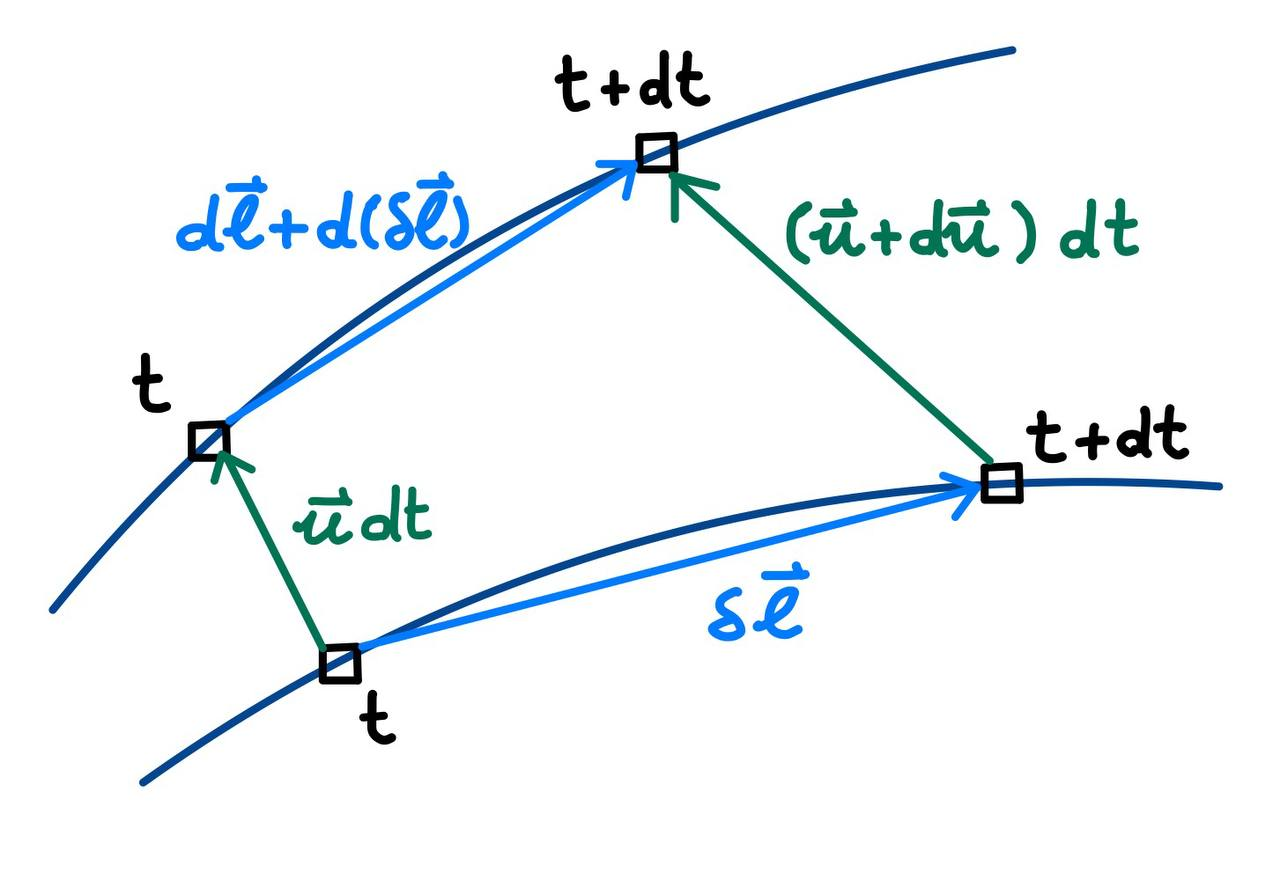
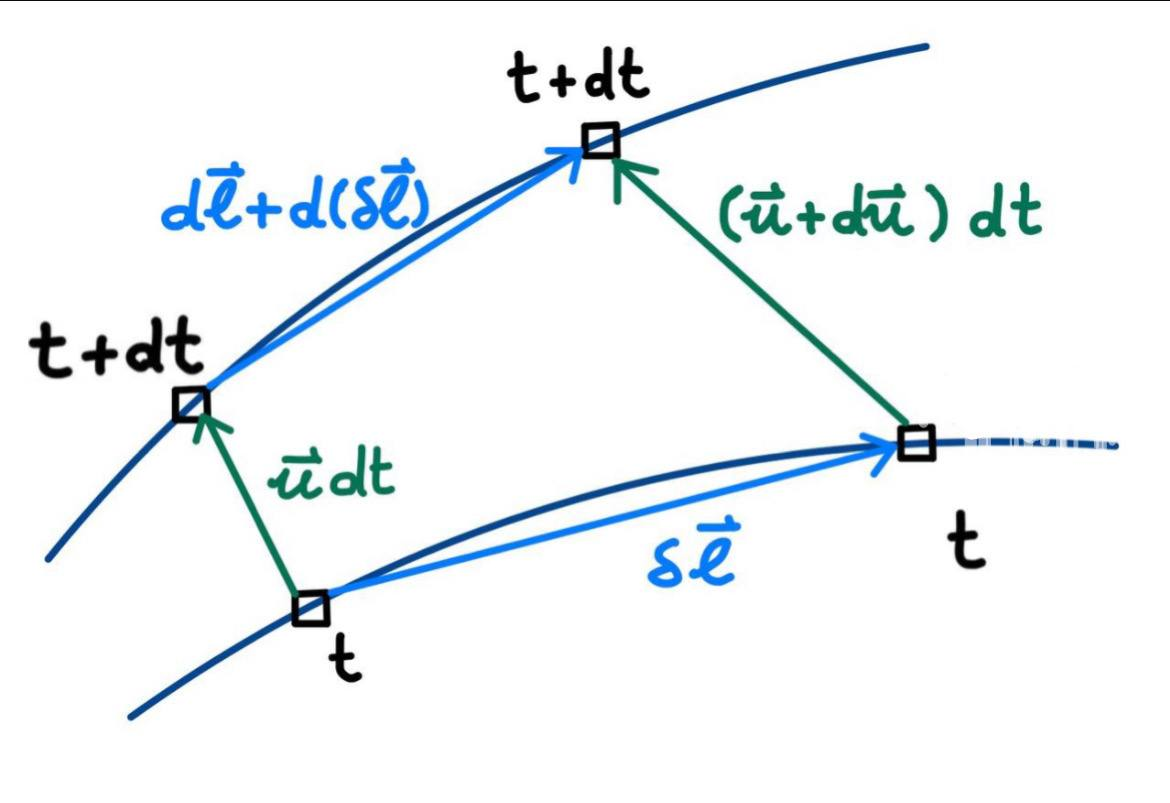
correzioni alle onde di plasma

diff --git a/plasma-waves.tex b/plasma-waves.tex
@@ -4,7 +4,7 @@
 	Riferimenti: cap. 9-10-11 di \emph{Fisica dei plasmi} di Pucella-Segre
 }{}
 
-Ricordiamo dei risultati già ottenuti per poi sviluppare una descrizione delle onde di plasma aggiornata alle nuove descrizioni che abbiamo sviluppato negli ultimi capitoli (teoria cinetica e magnetoidrodinamica).
+Ricordiamo dei risultati già ottenuti per poi sviluppare una descrizione delle onde di plasma aggiornata alle nuove teorie che abbiamo sviluppato negli ultimi capitoli (teoria cinetica e magnetoidrodinamica).
 
 \subsection{Onde acustiche}
 
@@ -90,54 +90,72 @@ Da qui abbiamo osservato la possibilità di dividere il risultato per la propaga
 \section{Onde ion-acustic}
 
 
-Onde elettrostatiche di tipo acustico/sonoro, si possono ricavare da vlasov ma noi non lo facciamo, le ricaviamo con il modello a due fluidi. 
+Onde elettrostatiche di tipo acustico/sonoro, si possono ricavare da vlasov ma noi non lo facciamo, le ricaviamo con il modello a due fluidi (cfr. sezione 10.6 Pucella-Segre, "\emph{Onde elettrostatiche in plasmi caldi, senza $B_0$}", con un procedimento del tutto uguale a quello che seguiremo di seguito si possono trovare le stesse onde di plasma che abbiamo già studiato e riassunto qui, per queste cfr. sezione 10.5 "\emph{Onde in un plasma freddo, senza $B_0$}"). 
 
-Se partissimo direttamente dall'MHD non troveremmo le onde di plasma (e il landau damping), ma noi invece le troveremo (questa parte è un po' poco chiara, si fa facilmente confusione fra tutti questi tipi di onde in diversi regimi, ma vediamo come rimettere il tutto in ordine).
+Se partissimo direttamente dall'MHD (cfr. capitolo 9 Pucella-Segre) non troveremmo le onde di plasma (e il landau damping), ma noi invece le troveremo (questa parte è un po' poco chiara, si fa facilmente confusione fra tutti questi tipi di onde in diversi regimi, ma vediamo come rimettere il tutto in ordine).
 
-Abbiamo un plasma non magnetizzato:
+  
+
+\paragraph{Equazioni di base e ipotesi: } 
+
+Consideriamo le grandezze all'equilibrio con perturbazioni di piccola grandezza:
+
+\[n_\alpha=n_{0\alpha}+n_{1\alpha}\hspace{1cm}P_\alpha=P_{0\alpha}+P_{1\alpha}\hspace{1cm}\text{con }\alpha=I,e\]
+
+Vogliamo studiare un plasma non magnetizzato, per le grandezze di equilibrio poniamo le ipotesi:
 
 \[\vec E_0=0 \implies \vec E=\vec E_1\ ;\qquad
 \vec B_0=0\implies \vec B=\vec b\ ; \qquad
 \vec u_0=0\implies \vec u=\vec u_1\] 
 
-il termine $\vec u_1\times\vec b$ è del second'ordine ed è pertanto per noi nullo, significa che la nostra onda è polarizzata longitudinalmente e non abbiamo onde elettromagnetiche che avrebbero bisogno del campo magnetico,
+Abbiamo detto che ricaveremo queste onde partendo dal modello a due fluidi quindi riportiamo le equazioni introdotte nel capitolo 2 (continuità, moto, politropica):
 
-\[\vec E\parallel\vec u\parallel\vec k\]
+\[
+\begin{cases}
+	\frac{\partial n_\alpha}{\partial t}\, +\, \vec \nabla \cdot (n_\alpha \vec u_\alpha)\ =\ 0\ \ ,\\
+	m_\alpha n_\alpha \left(\frac{\partial \vec u_\alpha}{\partial t + \vec u_\alpha \cdot \vec \nabla \vec u_\alpha }\right)\ =\ -\vec \nabla P_\alpha\, +\, n_\alpha q_\alpha\,\left(\vec E + \frac{1}{c}\vec u_\alpha \times \vec B\right)\ \ ,\\
+	\frac{D}{Dt} \left(P_\alpha n_\alpha^{-\gamma_\alpha}\right)\ =\ 0\ \ .	
+\end{cases}
+\]
 
-La velocità di fase dell'onda ion-acustic è molto minore delle velocità termiche elettroniche in gioco: 
-
-\[v_{th,I}\ll v_f \ll v_{th,e} \] 
-
-i tempi scale sono tali da avere una risposta inerziale (adiabatica) da parte degli ioni e una risposta termica (isoterma) da parte degli elettroni. questo implica che devo usare due politropiche diverse per le due specie.   
-
-\paragraph{Equazioni di base: } 
-\[n_\alpha=n_{0\alpha}+n_{1\alpha}\hspace{1cm}P_\alpha=P_{0\alpha}+P_{1\alpha}\hspace{1cm}\alpha=I,e\]
+Andiamo a linearizzare come già fatto precedentemente ma per la politropica in particolare osserviamo che il termine $\vec u_1\cdot \vec \nabla$ della derivata materiale è di ordine successivo per cui rimane $\frac{\partial p_\alpha}{\partial t} n_\alpha^{-\gamma_\alpha} + p_\alpha\frac{\partial (n_\alpha^{-\gamma_\alpha)}}{\partial t} = 0$:
 
 \[\begin{aligned}
 	\text{equazione di continuità linearizzata}\qquad \qquad  
 	& \partial_tn_{1\alpha }+\nabla\cdot(n_{0\alpha}\vec u_{1\alpha})=0\\ 
 	\text{equazione del moto linearizzata} \qquad \qquad
-	& m_\alpha\, n_{0\alpha}\,\partial_t\vec u_{1\alpha}\ =\ -\nabla P_{1\alpha}\,+\,n_{0\alpha}q_{\alpha}\,(\vec E+\cancelto{0}{\frac{\vec u_{1\alpha}\times\vec b}{c}})\\
+	& m_\alpha\, n_{0\alpha}\,\partial_t\vec u_{1\alpha}\ =\ -\nabla P_{1\alpha}\,+\,n_{0\alpha}q_{\alpha}\,(\vec E+\cancelto{\sim 0}{\frac{\vec u_{1\alpha}\times\vec b}{c}})\\
 	\text{chiusura politropica linearizzata} \qquad \qquad
 	& P_{1\alpha}\ =\ \gamma_\alpha\frac{P_{0\alpha}}{n_{0\alpha}}n_{1\alpha}\ \underset{\begin{cases} P=nT\\ v_{th}^2=T/m \end{cases}}{=}\ \gamma_\alpha\,  v^2_{th}\, m_\alpha\,n_{1\alpha}
 \end{aligned}\]
 
+il termine $\vec u_1\times\vec b$ è del second'ordine ed è pertanto per noi nullo, significa che per la nostra onda che è polarizzata longitudinalmente $\vec k\parallel \vec E$, la seconda equazione ci conduce alla condizione:
 
-\paragraph{soluzione onda piana e relazione di dispersione: } 
-Cerco una soluzione ad onda piana $\sim e^{i(\vec k\cdot\vec r-\omega t)}$, trovo un sistema di equazioni che se risolte mi danno la relazione di dispersione.  
+\[\vec E_1\ \parallel\ \vec u_1\ \parallel\ \vec k\ \ \ .\]
+
+La velocità di fase dell'onda ion-acustic è molto minore delle velocità termiche elettroniche in gioco: 
+
+\[v_{th,I}\ll v_f \ll v_{th,e} \] 
+
+i tempi scale sono tali da avere una risposta inerziale (adiabatica) da parte degli ioni e una risposta termica (isoterma) da parte degli elettroni. questo implica che devo usare due politropiche diverse per le due specie. 
 
 Risulta utile definire una sorta di "\underline{velocità del suono per la specifica specie}"
 
 \[\boxed{ v^2_{0\alpha}=\frac{\gamma_\alpha P_{0\alpha}}{m_\alpha n_{0\alpha}} }\] 
 
-Facciamo una trasformata di Fourier e togliamo i segni di vettore perché il nostro problema adesso è unidimensionale:
+
+
+\paragraph{soluzione onda piana e relazione di dispersione: } 
+Cerco una soluzione ad onda piana $\sim e^{i(\vec k\cdot\vec r-\omega t)}$, trovo un sistema di equazioni che se risolte mi danno la relazione di dispersione.  
+
+Facciamo una trasformata di Fourier e togliamo i segni di vettore perché il nostro problema diventa unidimensionale grazie alla condizione di parallelismo fra campo elettrico, vettore d'onda e velocità di propagazione:
 
 \[\begin{cases}
 	-i\omega\,n_{1\alpha}\,+\,ik\,n_{0\alpha}u_\alpha\ =\ 0
 	\\
 	i\,\omega m\,_\alpha n_{0\,\alpha}\,u_\alpha\ =\ -iP_{1\alpha}k\,+\, n_{0\alpha}q_{\alpha}\, E
 	\\
-	P_{1\alpha}\ =\ \gamma_\alpha\, \frac{P_{0\alpha}}{n_{0\alpha}}\, n_{1\alpha}    
+	P_{1\alpha}\ =\ \gamma_\alpha P_{0\alpha}\, \frac{n_{1\alpha} }{n_{0\alpha}}\,    
 \end{cases} \quad \implies \quad u_\alpha\ =\ \frac{iq_\alpha}{m_\alpha}\,\frac{\omega}{\omega^2-k^2v_{0\alpha}^2}\, E\] 
 
 Adesso che abbiamo le velocità possiamo ricavare la corrente totale moltiplicando ogni equazione per $n_\alpha q_\alpha$ e sommando sulle $\alpha$:
@@ -152,8 +170,10 @@ Abbiamo quindi un'espressione per la \underline{suscettività elettrica} $\sigma
 
 \begin{equation}
 	\label{permittività}
-	\epsilon=1+\frac{4\pi i}{\omega}\sigma
+	\epsilon\ =\ 1+\frac{4\pi i}{\omega}\sigma\ =\ 1\,-\,\sum_\alpha \frac{ \omega^2_{P,\, \alpha} }{ \omega^2-k^2v^2_{0,\alpha} } \ \ . 
 \end{equation}
+
+Per un plasma costituito da elettroni ed un solo tipo di ioni abbiamo quindi:
 
 \[\epsilon\ =\ 1\, - \, \frac{\omega_{pI}^2}{\omega^2-k^2v_{0I}^2}\, -\, \frac{\omega_{pe}^2}{\omega^2-k^2v_{0e}^2}\] 
 
@@ -176,7 +196,7 @@ Per procedere più agevolmente prendiamo $\omega^4-A\omega^2+C=0$ poniamo $\omeg
 \quad \implies \qquad 
 \begin{cases}
 	\omega_{th}^2\ \simeq\ A\ \simeq\ k^2v_{0e}^2+\omega_{pe}^2\\
-	\omega^2_{IA}\ \simeq\ \frac{AB}{4}\ =\ \frac{C}{A}\ =\ \frac{k^4 v^2_{0,\,e} v^2_{0,\,I} + k^2(\omega^2_{p,\,I}v^2_{0,\,e}+\omega^2_{p,\,e}v^2_{0,\,I})}{k^2(v^2_{0,\,e}+v^2_{0,\,I})+ \omega^2_{p,\,e} + \omega^2_{p,\,I}}
+	\omega^2_{IA}\ \simeq\ \frac{AB}{4}\ =\ \frac{C}{A}\ =\ \frac{ k^2(\omega^2_{p,\,I}v^2_{0,\,e}+\omega^2_{p,\,e}v^2_{0,\,I} + k^2 v^2_{0,\,e} v^2_{0,\,I} )}{k^2(v^2_{0,\,e}+v^2_{0,\,I})+ \omega^2_{p,\,e} + \omega^2_{p,\,I}}
 \end{cases}
 \]
 
@@ -193,48 +213,76 @@ v_{0I}^2=\frac{\gamma_IP_{0I}}{m_In_{0I}}=\frac{\gamma_IT_{I}}{m_I}
 \frac{\lambda^2_{De}}{\lambda^2_{DI}}=\frac{T_e}{T_I}\] 
 
 Otteniamo infine la \underline{relazione di dispersione delle onde Ion-Acoustic}: 
-\[\boxed{\frac{\omega^2_\text{IA}}{k^2}\ =\ v_{0I}^2\ \frac{k^2\,+\,\frac{1}{\lambda_\text{De}^2}\,+\,\frac{1}{\lambda_\text{DI}^2}}{k^2\,+\,\frac{1}{\lambda_\text{De}^2}}}\ .\]
+
+\begin{equation} \label{ionoacustiche}
+	\boxed{\frac{\omega^2_\text{IA}}{k^2}\ =\ v_{0I}^2\ \frac{k^2\,+\, \displaystyle\frac{1}{\gamma_e \lambda_\text{De}^2}\,+\,\frac{1}{\gamma_I \lambda_\text{DI}^2}}{k^2\,+\,\displaystyle\frac{1}{\gamma_e \lambda_\text{De}^2}}}\ \ \  .
+\end{equation}
+
 
 \subsubsection{Regimi } Riconosciamo 3 regimi a seconda dell'ordinamento della lunghezza d'onda, andiamo quindi a vedere come $k$ si confronta alle inverse delle lunghezze di Debye inverse. 
 
 \begin{enumerate}
-	\item il \underline{caso classico} è quello per cui $k^2\,\ll\, \lambda_{\text{D, e}}^{-2},\,\, \lambda_{\text{D, I}}^{-2}$ :
+	\item il \underline{caso classico} è quello per cui $k^2\,\ll\, \lambda_{\text{D, e}}^{-2}\,\ll\, \lambda_{\text{D, I}}^{-2}$ :
 	
 	\[k^2\ll\frac{1}{\lambda_{\text{D, e}}^2}\iff\lambda^2\gg\lambda_{\text{D, e}}^2,\qquad\qquad k^2\ll\frac{1}{\lambda_{\text{D, I}}^2}\iff\lambda^2\gg\lambda_{\text{D, I}}^2\] 
 	
-	Questa relazione non ci dice in che maniera sono ordinate le $\lambda_D$ e di conseguenza le $T$. in linea di principio è possibile che siano qualsiasi.  
+	Questa relazione non ci dice in che maniera sono ordinate le $\lambda_D$ e di conseguenza le $T$. in linea di principio è possibile che siano qualsiasi.
 	
-	\item  Oscillazioni di plasma degli ioni:
+	Nella relazione di eq. \ref{ionoacustiche} possiamo trascurare $k^2$ al denominatore, ma anche al numeratore visto che conta molto meno di $1/\lambda^2_{D,e}$. Per questo rimane la seguente relazione che semplifichiamo osservando che $\frac{\gamma_e \lambda^2_{D,e}}{\gamma_I \lambda^2_{D,I}} = \frac{m_e v^2_{0,e}}{m_I v^2_{0,I}}$:
+	
+	\[\begin{aligned}
+		\frac{\omega^2}{k^2}\ &=\ v^2_{0,I}\, \left[\frac{(\gamma_e \lambda^2_{D,e})^{-1} + (\gamma_I \lambda^2_{D,I})^{-1}}{(\gamma_e \lambda^2_{D,e})^{-1}}\right]\ =\ v^2_{0,I}\, \left[1\, +\, \frac{(\gamma_I \lambda^2_{D,I})^{-1}}{(\gamma_e \lambda^2_{D,e})^{-1}}\right]\ =\\
+		&=\ v^2_{0,I}\, \left[1\, +\, \frac{m_e v^2_{0,e}}{m_I v^2_{0,I}} \right]\ =\ v^2_{0,e} \frac{m_e}{m_I} + v^2_{0,I}\ \simeq\ c^2_s
+	\end{aligned}\] 
+	
+	Usando la definizione di velocità ionico-acustica
+	
+	\[c^2_s\ =\ \gamma\frac{P_0}{\rho_0}\ =\ \frac{\gamma_e T_e n_{0,e} + \gamma_I T_I n_{0,I}}{m_e n_{0,e} + m_I n_{0,I}}\ \simeq\ v^2_{0,e} \frac{m_e}{m_I} + v^2_{0,I}\]
+	
+	%
+	%
+	\item  Abbiamo poi il caso delle \underline{oscillazioni di plasma ioniche}:
 	
 	\[k^2\gg\frac{1}{\lambda_{D,e}^2}\iff\lambda^2\ll\lambda_{D,e}^2\ \ ,
 	\qquad \quad k^2\ll\frac{1}{\lambda_{DI}^2}\iff\lambda^2\gg\lambda_{DI}^2\] 
 	
-	Data la prima disuguaglianza, il $k^2$ della relazione di dispersione può essere non considerato al denominatore, ma vista la seconda disuguaglianza anche quello al numeratore può essere ignorato:
+	Data la prima disuguaglianza, il $k^2$ della relazione di dispersione può essere non considerato al numeratore di eq.\ref{ionoacustiche}, così come il termine $1/\lambda^2_{D,e}$ rispetto a $1/\lambda^2_{D,e}$. Al denominatore invece domina $k^2$ per cui rimane:
 	
-	\[\lambda_{De}^2\ll\lambda^2\ll\lambda_{DI}^2
-	\ \ \implies \ \ 
-	T_I\gg T_e\]   
+	\[ \frac{\omega^2}{k^2}\ =\ \frac{v^2{0,I}}{k^2 \gamma_I \lambda^2_{D,I} }\ =\ \frac{\omega^2_{P,I}}{k^2}\ \ . \] 
 	
-	\[\frac{\omega^2}{k^2}\ =\ v_{0I}^2\,\left(1+\frac{\lambda_{De}^2}{\lambda_{DI}^2}\right)\ =\ \frac{\gamma_I}{m_I}\, T_I\, \left(\frac{T_e+T_I}{T_I}\right)\]
+	Torna la definizione di frequenza di plasma ionica $\omega^2_{P,I}=\frac{4\pi\, e^2\, n_{0, I}}{m_I}$, usata insieme a $v^2_{0\alpha}=\frac{\gamma_\alpha P_{0\alpha}}{m_\alpha n_{0\alpha}}$ ed a $\gamma^2_{D,\alpha}\sim \frac{v^2_{0,\alpha}}{\omega^2_{P,\alpha}}$
 	
-	\[\boxed{\frac{\omega^2}{k^2}\ =\ \frac{\gamma_I}{m_I}\, (T_e+T_I)}\] 
 	
-	Questa può essere vista come una sorta di velocità del suono, infatti queste sono le tipiche onde "ion-acustic". Si vede che l'inerzia è data dagli ioni nel senso che compare $m_I$ mentre la risposta termica è data da entrambi, anche se quando $T_I\sim T_e$ tipicamente avviene il Damping di Landau e l'onda non si propaga (a meno che non si faccia una forzatura). 
-	Le onde che sopravvivono sono quelle con $T_e\gg T_i$.
-	
+	%
+	%
 	\item \[k^2\gg\frac{1}{\lambda_{De}^2}\iff\lambda^2\ll\lambda_{De}^2,\quad k^2\gg\frac{1}{\lambda_{DI}^2}\iff\lambda^2\ll\lambda_{DI}^2\]  Questo caso è praticamente insensato perchè siamo al di sotto delle lunghezze di Debye e praticamente non possiamo nemmeno dire di avere a che fare con un plasma. In questo caso la soluzione ha come relazione di dispersione una relazione analoga alle onde di plasma, ma per gli ioni. 
-	\[\omega^2\ =\ \omega_{pI}^2\ +\ k^2\,v_{0I}^2\] 
+	\[\omega^2\ =\ k^2 v^2_{0,I}\, \left(1\, +\, \frac{1}{k^2 \gamma_I \lambda^2_{D,I}}\right)
+	\ =\ \omega_{pI}^2\ +\ k^2\,v_{0I}^2\] 
+	
+	In particolare considerando $k^2\gg \lambda^{-2}_{D,I}$ rimane solamente $\omega^2=k^2 v^2_{0,I}$.
 \end{enumerate} 
 
+\begin{multicols}{2}
 Alla fine, quando si parla di onde Ion-Acoustic, si parla del caso uno e tendenzialmente con $T_e\gg T_i$. 
 
 Nel caso delle onde Ion-Acoustic si ha $v_f\gg v_{th,I}$ (e quindi gli ioni hanno una risposta adiabatica) mentre $v_f\ll v_{th,e}$ (e quindi gli elettroni hanno una risposta isoterma). 
 
 Nel caso invece in cui $T_I\sim T_e $ siamo nelle condizioni in cui tendenzialmente l'onda non sopravvive perché avviene il Damping di Landau. Se l'onda viene sforzata con un intervento esterno la distribuzione si appiattisce finché non smette di avvenire il damping.
 
+\begin{figure}[H]
+	\centering
+	\label{ionoacustiche dispersione}
+	\includegraphics[width=7.5cm]{immagini/dispersioneionacoustic.jpg}
+	\caption{Raffigurazione delle relazioni di dispersione trovate, in particolare in basso si osservano le onde ion-acoustic con i 3 regimi discussi.}
+\end{figure}
+
+\end{multicols}
+
+
 %
 %
 %
+\vspace{0.5cm}
 \section{Onde magnetoidrodinamiche}
 
 Passiamo a studiare onde che emergono dalla trattazione magnetoidrodinamica.
@@ -273,7 +321,7 @@ Proseguiamo i calcoli in trasformata di Fourier:
 \end{cases}
 \]
 
-\begin{multicols}{2}
+
 	Facciamo caso di passare da un sistema di riferimento $(\hat x, \hat y, \hat z)$ che stavamo usando ad un sistema $(\hat k, \hat y, \hat{\bar z})$ come da fig.(\ref{fig:sist di rif}).
 	
 	Calcoliamo ora il triplo prodotto della seconda equazione nel sistema: 
@@ -289,7 +337,7 @@ Proseguiamo i calcoli in trasformata di Fourier:
 		\caption{cambio di sistema di riferimento $(\hat x, \hat y, \hat z) \ \ \rightarrow \ \ (\hat k, \hat y, \hat{\bar z})$}
 		\label{fig:sist di rif}
 	\end{figure}
-\end{multicols}
+
 
 \[  B_0\hat e_z\times (\vec k\times \vec b) \ =\ \begin{vmatrix} 
 	\hat x & \hat y & \hat z \\ 